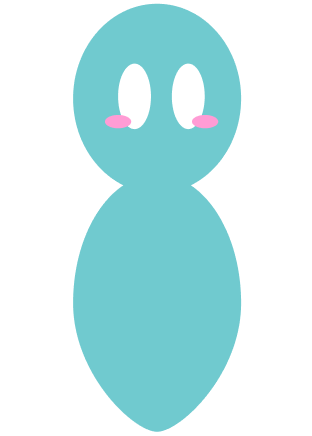
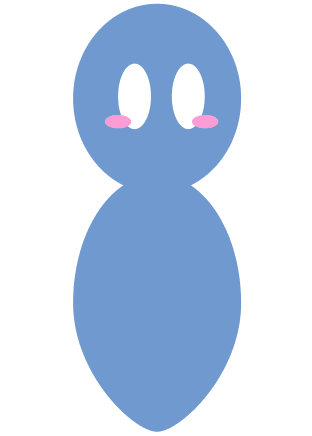
feat(soulpal): unify all SoulPal renders to blue (#709ACF) app-wide (so-xm18)
Context (SoulPalContext): hard-pin effective colorId to 'blue' via
FIXED_COLOR_ID constant; remove AsyncStorage color load so returning
users with persisted teal/purple are immediately migrated to blue.
setColorId retained as no-op for API surface compat.

Profile (ProfileScreen): update colorId override teal→blue on all 4
SoulPalAnimated calls (header + name-card, both themes).

Name screen (SoulPalNameScreen): change tintColor '#70CACF'→'#709ACF'
on the back-layer silhouette.

Static PNGs (11 files): hue-shift teal pixels (hue 155-215°) by +30°
to the blue family (213°) preserving transparency and shading.
home-v2/soulpal-{1-5}.png, onboarding/soulpal_{main,left,right}.png,
journal/JournalSoulPalChar.png, journal/SoulPalArm{Left,Right}.png.

Lottie (Soulpal.json): recolor 10 teal fill entries from hue 183°/201°
to 213°/231°; scale transform [-100,100,100] intact.

diff --git a/src/screens/ProfileScreen.tsx b/src/screens/ProfileScreen.tsx
@@ -128,7 +128,7 @@ const ProfileScreen = ({ navigation }: any) => {
           {/* Avatar — so-jm9t: dynamic SoulPal (resting pose) replacing static ghost PNG */}
           <View style={dk.avatarContainer}>
             <View style={dk.avatarCircle}>
-              <SoulPalAnimated pose="default" size={90} animate={false} colorId="teal" />
+              <SoulPalAnimated pose="default" size={90} animate={false} colorId="blue" />
             </View>
           </View>
 
@@ -212,7 +212,7 @@ const ProfileScreen = ({ navigation }: any) => {
           <GlassCard style={dk.soulPalCard}>
             <View style={dk.soulPalCardInner}>
               <View style={dk.soulPalCharArea}>
-                <SoulPalAnimated pose="celebrating" size={65} animate={true} colorId="teal" />
+                <SoulPalAnimated pose="celebrating" size={65} animate={true} colorId="blue" />
               </View>
               <View style={dk.soulPalRight}>
                 <Text style={dk.soulPalLabel}>Soul Pal</Text>
@@ -268,7 +268,7 @@ const ProfileScreen = ({ navigation }: any) => {
         {/* Avatar — so-jm9t: dynamic SoulPal (resting pose) replacing static ghost PNG */}
         <View style={lt.avatarContainer}>
           <View style={lt.avatarCircle}>
-            <SoulPalAnimated pose="default" size={90} animate={false} colorId="teal" />
+            <SoulPalAnimated pose="default" size={90} animate={false} colorId="blue" />
           </View>
         </View>
 
@@ -352,7 +352,7 @@ const ProfileScreen = ({ navigation }: any) => {
         <View style={lt.soulPalCard}>
           <View style={lt.soulPalCardInner}>
             <View style={lt.soulPalCharArea}>
-              <SoulPalAnimated pose="celebrating" size={65} animate={true} colorId="teal" />
+              <SoulPalAnimated pose="celebrating" size={65} animate={true} colorId="blue" />
             </View>
             <View style={lt.soulPalRight}>
               <Text style={lt.soulPalLabel}>Soul Pal</Text>

diff --git a/src/contexts/SoulPalContext.tsx b/src/contexts/SoulPalContext.tsx
@@ -160,26 +160,27 @@ interface SoulPalContextType {
   eyesImage: any;
 }
 
+// so-xm18: all SoulPals are blue across the app (blue = the single unified color).
+const FIXED_COLOR_ID: SoulPalColorId = 'blue';
+
 const SoulPalContext = createContext<SoulPalContextType>({
-  colorId: 'teal',
+  colorId: FIXED_COLOR_ID,
   setColorId: () => {},
   name: DEFAULT_SOULPAL_NAME,
   setName: () => {},
-  bodyImage: BODY_IMAGES.teal,
-  homeImage: HOME_IMAGES.teal,
-  eyesImage: EYES_IMAGES.teal,
+  bodyImage: BODY_IMAGES[FIXED_COLOR_ID],
+  homeImage: HOME_IMAGES[FIXED_COLOR_ID],
+  eyesImage: EYES_IMAGES[FIXED_COLOR_ID],
 });
 
 export const SoulPalProvider: React.FC<{ children: React.ReactNode }> = ({ children }) => {
-  const [colorId, setColorIdState] = useState<SoulPalColorId>('teal');
+  // so-xm18: color is fixed to FIXED_COLOR_ID (blue) for all users.
+  // Stored @soultalk_soulpal_color is ignored so returning users with a
+  // previously-persisted teal/purple/etc. also get blue immediately.
+  const colorId = FIXED_COLOR_ID;
   const [name, setNameState] = useState<string>(DEFAULT_SOULPAL_NAME);
 
   useEffect(() => {
-    AsyncStorage.getItem(SOULPAL_COLOR_KEY).then((val) => {
-      if (val && BODY_IMAGES[val as SoulPalColorId]) {
-        setColorIdState(val as SoulPalColorId);
-      }
-    });
     AsyncStorage.getItem(SOULPAL_NAME_KEY).then((val) => {
       if (val && val.trim()) {
         setNameState(val.trim());
@@ -187,10 +188,9 @@ export const SoulPalProvider: React.FC<{ children: React.ReactNode }> = ({ child
     });
   }, []);
 
-  const setColorId = (id: SoulPalColorId) => {
-    setColorIdState(id);
-    AsyncStorage.setItem(SOULPAL_COLOR_KEY, id);
-  };
+  // setColorId is retained on the context API surface for type-compatibility
+  // but is a no-op: the color is pinned to FIXED_COLOR_ID.
+  const setColorId = (_id: SoulPalColorId) => {};
 
   const setName = (next: string) => {
     const trimmed = next.trim();

diff --git a/src/screens/SoulPalNameScreen.tsx b/src/screens/SoulPalNameScreen.tsx
@@ -263,10 +263,10 @@ const SoulPalNameScreen: React.FC<SoulPalNameScreenProps> = ({ navigation }) => 
           <View style={styles.mainWrapper}>
             {/* SoulPal Character - Rotating turn */}
             <Animated.View style={[styles.characterContainer, characterContainerStyle]}>
-              {/* Back layer: tinted solid teal (no features visible) */}
+              {/* Back layer: tinted solid blue (no features visible) — so-xm18 */}
               <Image
                 source={SoulpalCharacter}
-                style={[styles.characterImage, { tintColor: '#70CACF' }]}
+                style={[styles.characterImage, { tintColor: '#709ACF' }]}
                 resizeMode="contain"
               />
               {/* Front layer: full character with features, fades in/out */}
